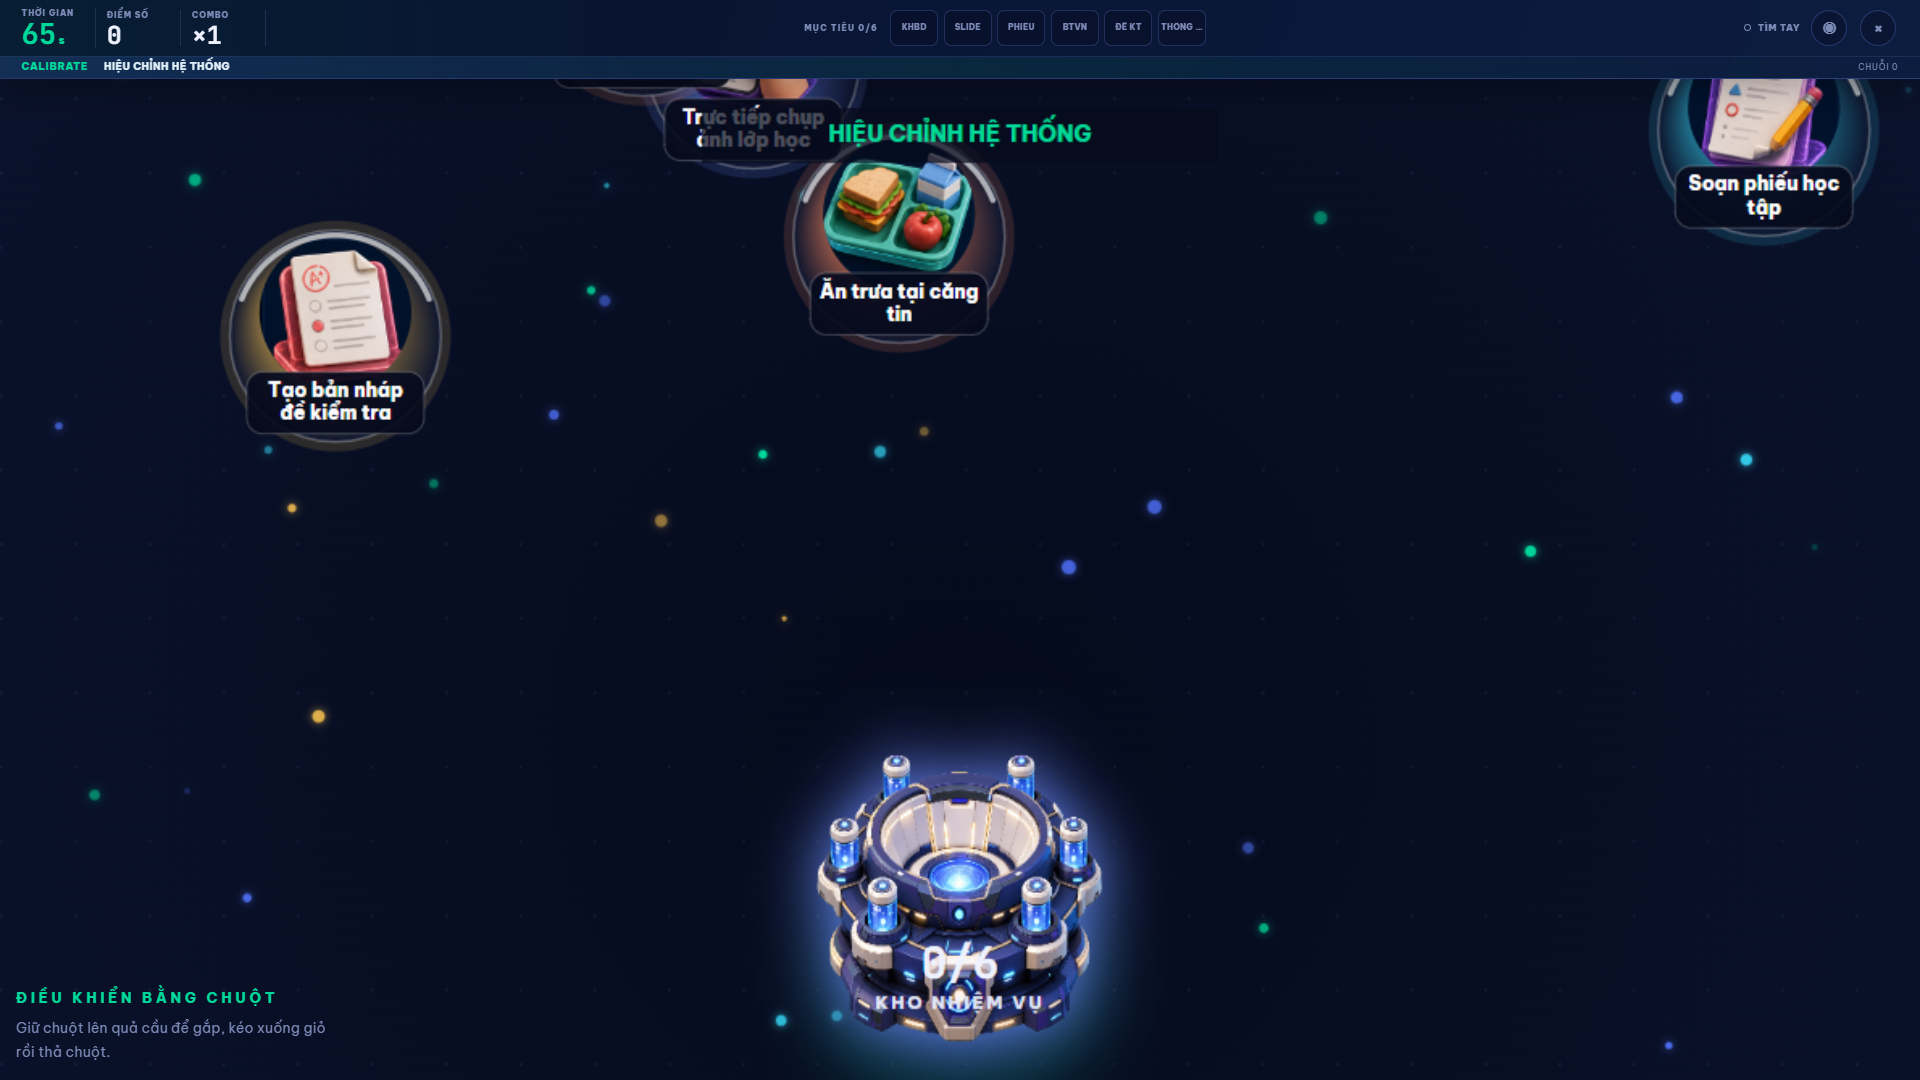
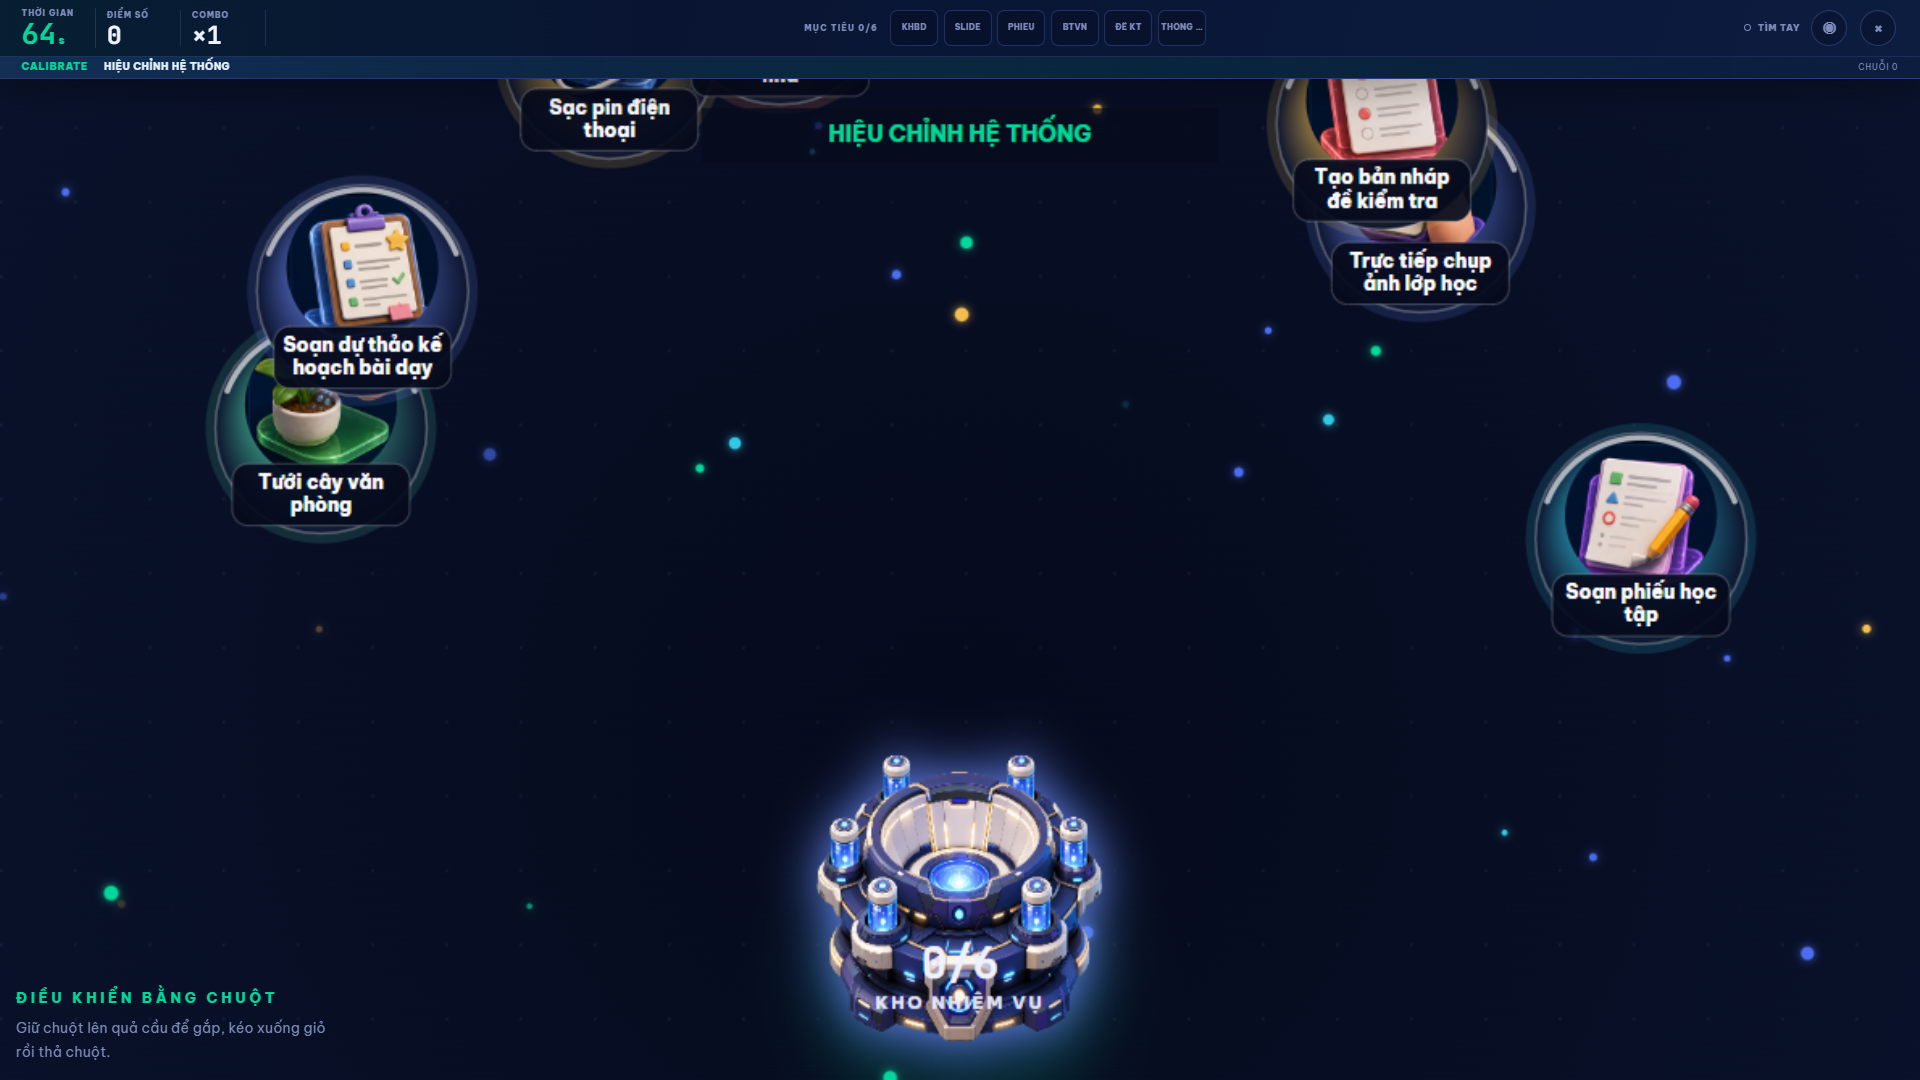
Smooth task ball motion

diff --git a/src/utils/engine.ts b/src/utils/engine.ts
@@ -33,6 +33,12 @@ interface DifficultyConfig {
 /** Đã giảm 30%, nay giảm thêm 50%: còn 35% nhịp gốc; không đổi nhịp sinh bóng. */
 const FALL_SPEED_SCALE = 0.35;
 const FALL_ACCELERATION = 0.00004 * FALL_SPEED_SCALE;
+const BASE_FRAME_MS = 1000 / 60;
+
+/** Giữ cùng cảm giác easing ở mọi tần số quét và với mọi physics sub-step. */
+function frameDamping(perFrameAmount: number, dt: number) {
+  return 1 - Math.pow(1 - perFrameAmount, dt / BASE_FRAME_MS);
+}
 
 const DIFFICULTY: Record<Difficulty, DifficultyConfig> = {
   easy: { spawnEveryMs: 1500, fallSpeed: 0.030 * FALL_SPEED_SCALE, noiseRatio: 0.35, durationSec: 120 },
@@ -337,9 +343,9 @@ export class GameEngine {
     }
 
     this.updateBgParticles(step);
-    this.handleHands();
+    this.handleHands(step);
     this.moveBalls(step);
-    this.updateReach();
+    this.updateReach(step);
     this.ageBursts(step);
     this.updateShockwaves(step);
 
@@ -398,7 +404,8 @@ export class GameEngine {
     this.confettiList = this.confettiList.filter((c) => c.y < this.height + 50);
   }
 
-  private handleHands() {
+  private handleHands(step: number) {
+    const follow = frameDamping(0.45, step);
     this.hands.forEach((hand, index) => {
       const wasPinching = this.prevPinch[index] ?? false;
 
@@ -411,8 +418,8 @@ export class GameEngine {
       if (hand.isPinching) {
         const held = this.balls.find((b) => b.grabbedBy === index && !b.dead);
         if (held) {
-          held.x += (hand.x - held.x) * 0.45;
-          held.y += (hand.y - held.y) * 0.45;
+          held.x += (hand.x - held.x) * follow;
+          held.y += (hand.y - held.y) * follow;
           held.vx = 0;
           held.vy = 0;
           held.trail.push({ x: held.x, y: held.y });
@@ -505,15 +512,17 @@ export class GameEngine {
 
   private moveBalls(step: number) {
     const basket = this.basket();
+    const collectEase = frameDamping(0.2, step);
+    const collectScale = Math.pow(0.94, step / BASE_FRAME_MS);
     for (const ball of this.balls) {
       if (ball.dead) continue;
 
       if (ball.consumedAt !== null) {
         const tx = basket.x + basket.w / 2;
         const ty = basket.y + basket.h * 0.55;
-        ball.x += (tx - ball.x) * 0.2;
-        ball.y += (ty - ball.y) * 0.2;
-        ball.r *= 0.94;
+        ball.x += (tx - ball.x) * collectEase;
+        ball.y += (ty - ball.y) * collectEase;
+        ball.r *= collectScale;
         if (ball.r < 12) ball.dead = true;
         continue;
       }
@@ -558,14 +567,16 @@ export class GameEngine {
   }
 
   private updateShockwaves(step: number) {
+    const expand = frameDamping(0.12, step);
     for (const sw of this.shockwaves) {
       sw.age += step;
-      sw.r += (sw.maxR - sw.r) * 0.12;
+      sw.r += (sw.maxR - sw.r) * expand;
     }
     this.shockwaves = this.shockwaves.filter((sw) => sw.age < sw.life);
   }
 
-  private updateReach() {
+  private updateReach(step: number) {
+    const ease = frameDamping(0.25, step);
     for (const ball of this.balls) {
       if (ball.dead || ball.consumedAt !== null) continue;
       if (ball.grabbedBy !== null) {
@@ -577,7 +588,7 @@ export class GameEngine {
         const d = Math.hypot(ball.x - hand.x, ball.y - hand.y);
         near = Math.max(near, 1 - Math.min(1, d / (ball.r + GRAB_PAD + 70)));
       }
-      ball.reach += (near - ball.reach) * 0.25;
+      ball.reach += (near - ball.reach) * ease;
     }
   }
 
@@ -852,7 +863,8 @@ export class GameEngine {
     const taskIndex = Math.max(0, ALL_TASKS.findIndex((task) => task.id === ball.task.id));
     const accents = ['#6D8BFF', '#AF7CFF', '#32C8E6', '#FF8A5B', '#F4BE4F', '#4ED6AD', '#F178B6'];
     const accent = accents[taskIndex % accents.length];
-    const wobble = Math.sin(this.elapsedMs / 420 + ball.seed) * 3;
+    const driftX = Math.sin(this.elapsedMs / 720 + ball.seed) * 1.6;
+    const driftY = Math.sin(this.elapsedMs / 980 + ball.seed * 1.3) * 0.8;
 
     // Vệt kéo khi đang cầm
     if (held && ball.trail.length > 1) {
@@ -873,7 +885,7 @@ export class GameEngine {
     }
 
     ctx.save();
-    ctx.translate(ball.x, ball.y + wobble);
+    ctx.translate(ball.x + driftX, ball.y + driftY);
 
     // Vòng gợi ý
     if (ball.reach > 0.04 && !held) {

diff --git a/src/components/Game.tsx b/src/components/Game.tsx
@@ -5,6 +5,9 @@ import { Difficulty, GameEngine, GameState, HandInput } from '../utils/engine';
 import { audio } from '../utils/audio';
 
 const CANVAS_RENDER_SCALE = 0.62;
+const MAX_FRAME_DELTA_MS = 50;
+const MAX_PHYSICS_STEP_MS = 1000 / 120;
+const UI_STATE_PUBLISH_INTERVAL_MS = 80;
 /** Ngưỡng chụm ngón. Rộng hơn bản bắn của earth-defender-ar vì thao tác gắp cần dung sai lớn hơn. */
 const PINCH_DISTANCE = 42;
 const MAX_HANDS = 2;
@@ -29,6 +32,11 @@ export function Game({ onGameOver, onStateUpdate, demoMode, difficulty }: GamePr
   const ctxRef = useRef<CanvasRenderingContext2D | null>(null);
   const mouseRef = useRef({ x: 0, y: 0, down: false, inside: false });
   const finishedRef = useRef(false);
+  const onGameOverRef = useRef(onGameOver);
+  const onStateUpdateRef = useRef(onStateUpdate);
+
+  onGameOverRef.current = onGameOver;
+  onStateUpdateRef.current = onStateUpdate;
 
   const [isLoading, setIsLoading] = useState(!demoMode);
   const [cameraError, setCameraError] = useState<string | null>(null);
@@ -36,13 +44,32 @@ export function Game({ onGameOver, onStateUpdate, demoMode, difficulty }: GamePr
 
   useEffect(() => {
     let active = true;
+    let lastPublishedAt = -Infinity;
+    let lastPublishedState: GameState | null = null;
     finishedRef.current = false;
 
     engineRef.current = new GameEngine((state) => {
-      onStateUpdate(state);
+      const now = performance.now();
+      const priorityUpdate = !lastPublishedState
+        || state.score !== lastPublishedState.score
+        || state.collected.length !== lastPublishedState.collected.length
+        || state.wrongDrops !== lastPublishedState.wrongDrops
+        || state.missedCore !== lastPublishedState.missedCore
+        || state.streak !== lastPublishedState.streak
+        || state.phase !== lastPublishedState.phase
+        || state.countdown !== lastPublishedState.countdown
+        || state.isGameOver !== lastPublishedState.isGameOver;
+
+      // Canvas vẫn chạy theo requestAnimationFrame; chỉ giảm nhịp đồng bộ HUD React
+      // để tránh render giao diện cạnh tranh thời gian với chuyển động của quả cầu.
+      if (priorityUpdate || now - lastPublishedAt >= UI_STATE_PUBLISH_INTERVAL_MS) {
+        lastPublishedAt = now;
+        lastPublishedState = state;
+        onStateUpdateRef.current(state);
+      }
       if (state.isGameOver && !finishedRef.current) {
         finishedRef.current = true;
-        onGameOver(state);
+        onGameOverRef.current(state);
       }
     }, { difficulty });
 
@@ -128,7 +155,7 @@ export function Game({ onGameOver, onStateUpdate, demoMode, difficulty }: GamePr
       const engine = engineRef.current;
       if (!canvas || !container || !engine) return;
 
-      const dt = currentTime - lastTime;
+      const frameDt = Math.max(0, Math.min(MAX_FRAME_DELTA_MS, currentTime - lastTime));
       lastTime = currentTime;
 
       const targetWidth = Math.max(1, Math.floor(container.clientWidth * CANVAS_RENDER_SCALE));
@@ -146,7 +173,14 @@ export function Game({ onGameOver, onStateUpdate, demoMode, difficulty }: GamePr
 
       const hands = demoMode || cameraError ? getMouseInputs() : getCameraInputs(canvas);
       engine.updateHands(hands);
-      engine.update(dt);
+      // Chia khung hình chậm thành các bước nhỏ để trọng lực và quỹ đạo không bị
+      // nhảy xa khi FPS dao động; canvas vẫn chỉ vẽ một lần cho mỗi frame màn hình.
+      let remainingDt = frameDt;
+      while (remainingDt > 0) {
+        const physicsDt = Math.min(MAX_PHYSICS_STEP_MS, remainingDt);
+        engine.update(physicsDt);
+        remainingDt -= physicsDt;
+      }
       engine.draw(ctx);
 
       requestRef.current = requestAnimationFrame(loop);

diff --git a/scripts/qa_visual.py b/scripts/qa_visual.py
@@ -9,11 +9,15 @@ failed_resources = []
 failed_requests = []
 
 engine_source = Path("src/utils/engine.ts").read_text(encoding="utf-8")
+game_source = Path("src/components/Game.tsx").read_text(encoding="utf-8")
 fall_scale_match = re.search(r"const FALL_SPEED_SCALE = ([0-9.]+);", engine_source)
 fall_scale = float(fall_scale_match.group(1)) if fall_scale_match else None
 assert fall_scale == 0.35, f"Unexpected fall speed scale: {fall_scale}"
 assert engine_source.count("fallSpeed:") == 4, "All three modes must define fallSpeed"
 assert engine_source.count("fallSpeed: 0.") == 3, "All three modes must use the shared scale"
+assert "frameDamping" in engine_source, "Ball easing must be time-based"
+assert "const MAX_PHYSICS_STEP_MS = 1000 / 120" in game_source, "Physics must use short sub-steps"
+assert "UI_STATE_PUBLISH_INTERVAL_MS" in game_source, "HUD updates must be throttled away from canvas FPS"
 
 with sync_playwright() as p:
     chrome = Path(r"C:\Program Files\Google\Chrome\Application\chrome.exe")
@@ -44,10 +48,36 @@ with sync_playwright() as p:
     mobile_overflow = mobile.evaluate("document.documentElement.scrollWidth <= document.documentElement.clientWidth")
     mobile.close()
 
+    page.bring_to_front()
     page.get_by_role("button", name="Chơi bằng chuột").click()
     # Qua hiệu ứng chuyển màn + đếm ngược, rồi để nhiều nhiệm vụ rơi đủ xa
     # nhằm kiểm tra trực quan nhịp rơi, mật độ và khả năng đọc nhãn.
     page.wait_for_timeout(9000)
+    frame_stats = page.evaluate("""
+        () => new Promise((resolve) => {
+            const deltas = [];
+            let previous = performance.now();
+            const started = previous;
+            const sample = (now) => {
+                deltas.push(now - previous);
+                previous = now;
+                if (now - started < 1800) {
+                    requestAnimationFrame(sample);
+                    return;
+                }
+                const sorted = deltas.slice(1).sort((a, b) => a - b);
+                const average = sorted.reduce((sum, value) => sum + value, 0) / sorted.length;
+                resolve({
+                    samples: sorted.length,
+                    average_ms: Number(average.toFixed(2)),
+                    p95_ms: Number(sorted[Math.floor(sorted.length * .95)].toFixed(2)),
+                    max_ms: Number(sorted[sorted.length - 1].toFixed(2)),
+                });
+            };
+            requestAnimationFrame(sample);
+        })
+    """)
+    assert frame_stats["samples"] >= 30, f"Too few animation samples: {frame_stats}"
     page.screenshot(path=str(out / "game-live.png"), full_page=False)
     canvas = page.locator("canvas").count()
     hud = page.locator(".game-hud").count()
@@ -57,6 +87,7 @@ with sync_playwright() as p:
         "desktop_no_horizontal_overflow": no_horizontal_overflow,
         "mobile_no_horizontal_overflow": mobile_overflow,
         "fall_speed_scale": fall_scale,
+        "frame_stats": frame_stats,
         "selected_modes": selected_modes,
         "canvas": canvas,
         "hud": hud,
